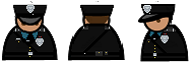
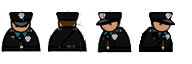
cc

diff --git a/src/Simulatie/Sim_Main.java b/src/Simulatie/Sim_Main.java
@@ -26,6 +26,7 @@ public class Sim_Main extends Application {
     private ResizableCanvas canvas;
     private Camera camera;
     private Font alarmFont;
+
     @Override
     public void start(Stage stage) throws Exception {
         BorderPane mainPane = new BorderPane();
@@ -36,7 +37,7 @@ public class Sim_Main extends Application {
         mainPane.setTop(hBox);
 
         canvas = new ResizableCanvas(g -> draw(g), mainPane);
-        alarmFont= new Font("Arial", Font.PLAIN, 50);
+        alarmFont = new Font("Arial", Font.PLAIN, 50);
         mainPane.setCenter(canvas);
         FXGraphics2D g2d = new FXGraphics2D(canvas.getGraphicsContext2D());
         camera = new Camera(canvas, g -> draw(g), g2d);
@@ -109,7 +110,7 @@ public class Sim_Main extends Application {
         //timeLine displayed on the top-left
         g.setFont(alarmFont);
         AffineTransform timeTx = new AffineTransform();
-        timeTx.translate(0,50);
+        timeTx.translate(0, 50);
         g.setColor(Color.WHITE);
         Shape shape = alarmFont.createGlyphVector(g.getFontRenderContext(), timeLine.toString()).getOutline();
         g.fill(timeTx.createTransformedShape(shape));
@@ -121,7 +122,6 @@ public class Sim_Main extends Application {
 
     /**
      * updates the simulation's timeline and calls update() of all NPCs
-     *
      */
     public void update(double deltaTime) {
 //        maps.setTx(camera.getTransform((int)canvas.getWidth(),(int)canvas.getHeight()).);
@@ -133,7 +133,7 @@ public class Sim_Main extends Application {
             //keeps track of how much time passed
             timeCount++;
             //resets time when it's the end of the day
-            if (timeLine.equals(LocalTime.of(23,59))) {
+            if (timeLine.equals(LocalTime.of(23, 59))) {
                 timeLine = LocalTime.MIN;
             }
             //converts timeCount to LocalTime, which the timeLine saves
@@ -154,19 +154,25 @@ public class Sim_Main extends Application {
     private Point2D goToNewTarget(Roster roster, int groupID) {
         String newLocation = "";
         for (Activity activity : roster.getActivities()) {
-                if (groupID == activity.getPrisonGroup().getGroupID())
-                    if(activity.getStartTime().equals(this.timeLine))
+            if (groupID == activity.getPrisonGroup().getGroupID())
+                if (activity.getStartTime().equals(this.timeLine))
+                    try {
                         newLocation = activity.getLocation().getLocationName();
-            }
-
-        if (newLocation.isEmpty()){
-            return randomMove();
-        }else {
-            return this.maps.locationObjects.get(newLocation).getPosition();
+                    } catch (Exception e) {
+                        newLocation = null;
+                    }
         }
+
+
+        if (newLocation != null) {
+            return randomMove();
+        }
+        return this.maps.locationObjects.get(newLocation).getPosition();
+
+
     }
 
-    public Point2D randomMove(){
+    public Point2D randomMove() {
         Double minX = this.maps.locationObjects.get("Yard 0").getPosition().getX();
         Double minY = this.maps.locationObjects.get("Yard 0").getPosition().getY();
         Double maxX = this.maps.locationObjects.get("Yard 0").getPosition().getX() + this.maps.locationObjects.get("Yard 0").getSize().getX();
@@ -176,7 +182,7 @@ public class Sim_Main extends Application {
         Integer ry = new Random().nextInt(maxY.intValue()) - minY.intValue();
 
         Point2D.Double random = new Point2D.Double(
-            rx.doubleValue(), ry.doubleValue()
+                rx.doubleValue(), ry.doubleValue()
         );
 
 //        System.out.println(random);
@@ -187,7 +193,7 @@ public class Sim_Main extends Application {
         launch(args);
     }
 
-    public void begin(){
+    public void begin() {
         FileIO fileIO = new FileIO();
         this.roster = fileIO.readData(new File("roster.ser"));
         this.maps = new Map();
@@ -195,7 +201,7 @@ public class Sim_Main extends Application {
         createVisitors(this.roster);
         timer = 0;
 
-        if(roster.getActivities().size() == 0){
+        if (roster.getActivities().size() == 0) {
             Alert noActiv = new Alert(Alert.AlertType.ERROR);
             noActiv.setTitle("Geen Activiteiten");
             noActiv.setHeaderText("Geen geplande activiteiten gevonden");

diff --git a/src/Simulatie/Visitor.java b/src/Simulatie/Visitor.java
@@ -44,12 +44,12 @@ public class Visitor {
 
             BufferedImage inmateImage = ImageIO.read(getClass().getResourceAsStream("/images/inmate.png"));
             BufferedImage guardImage = ImageIO.read(getClass().getResourceAsStream("/images/guard.png"));
-            int w = 64;
+            int w = 48;
             int h = 64;
             for (int y = 0; y < 1; y++) {
-                for (int x = 0; x < 3; x++) {
-                    this.inmateSprites.add(inmateImage.getSubimage(x * w, y * h, w, h));
-                    this.guardSprites.add(guardImage.getSubimage(x * w, y * h, w, h));
+                for (int x = 0; x < 4; x++) {
+                    this.inmateSprites.add(inmateImage.getSubimage(x * w, h * y, w, h));
+                    this.guardSprites.add(guardImage.getSubimage(x * w, h * y, w, h));
                 }
 
             }
@@ -103,7 +103,7 @@ public class Visitor {
         if (degrees >= 45 && degrees < 135) {
             this.frame = 0;
         } else if (degrees >= 135 && degrees < 225) {
-            this.frame = 2;
+            this.frame = 3;
         } else if (degrees >= 225 && degrees < 315) {
             this.frame = 1;
         } else {
@@ -138,7 +138,6 @@ public class Visitor {
         g2d.setFont(nameFont);
         g2d.setColor(Color.black);
         g2d.drawString(name, (int) (tx.getTranslateX()), (int) (tx.getTranslateY()));
-        g2d.draw(new Ellipse2D.Double(position.getX() - 32, position.getY() - 32, 64, 64));
     }
 
     public void setTarget(Point2D newTarget) {

diff --git a/src/Simulatie/Map.java b/src/Simulatie/Map.java
@@ -105,8 +105,8 @@ public class Map {
             Point2D topLeft = camera.getTransform(1024, 1024).inverseTransform(new Point2D.Double(0, 0), null);
             Point2D botRight = camera.getTransform(1024, 1024).inverseTransform(new Point2D.Double(1024, 1024), null);
             for (ArrayList<ArrayList<BufferedImage>> layer : layerImageCache) {
-                for (int x = Math.max(0, (int) topLeft.getX() / 32 / chunksize); x < Math.min(mapWidth / chunksize, botRight.getX() / 32 / chunksize); x++) {
-                    for (int y = Math.max(0, (int) topLeft.getY() / 32 / chunksize); y < Math.min(mapHeight / chunksize, botRight.getY() / 32 / chunksize); y++) {
+                for (int x = Math.max(0, (int) topLeft.getX() / 33 / chunksize); x < Math.min((mapWidth) / chunksize, botRight.getX() / 32 / chunksize); x++) {
+                    for (int y = Math.max(0, (int) topLeft.getY() / 33 / chunksize); y < Math.min((mapHeight) / chunksize, botRight.getY() / 32 / chunksize); y++) {
                         g.drawImage(layer.get(x).get(y), AffineTransform.getTranslateInstance(x * tileWidth * chunksize, y * tileHeight * chunksize), null);
                     }
 
